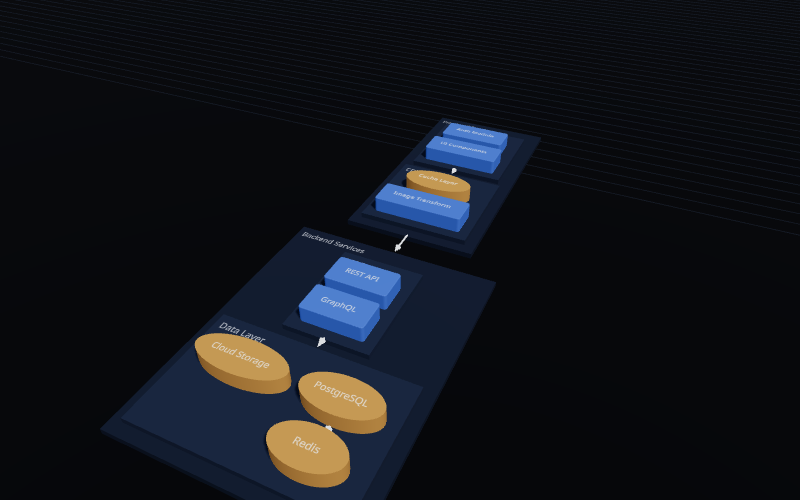
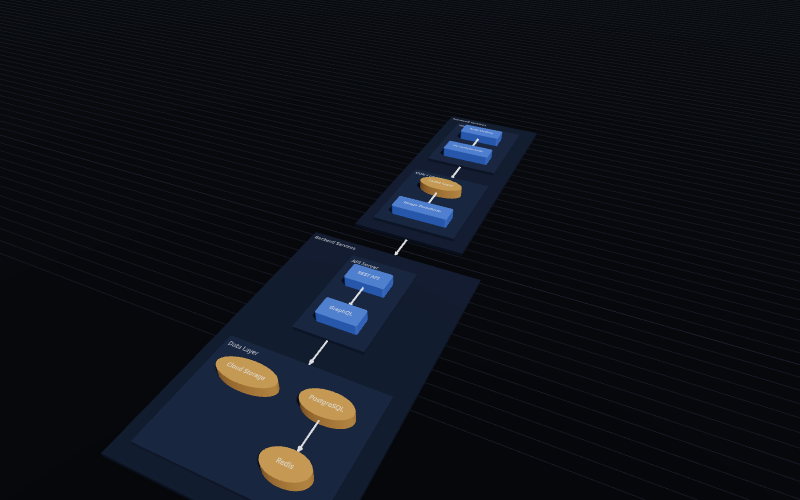
hero: no picture while loading (undecided state paints nothing; poster only when the device can't go live); retake all stills with pnpm capture (builds core first); retake rule in CONTRIBUTING, PULL_REQUEST, LOG; hero path/ready User Timing marks (BON-209)

Changed region(s): [[0.125, 0.45, 0.625, 1.0], [0.4375, 0.24, 0.6875, 0.51]]

diff --git a/apps/site/src/Hero.tsx b/apps/site/src/Hero.tsx
@@ -19,31 +19,37 @@ function canGoLive() {
   }
 }
 
-// The landing page's hero. The poster paints first; the live scene loads behind it and fades in once
-// it has drawn a real frame. `live`: true forces the scene, false forces the poster, unset auto-detects.
+// The landing page's hero. An empty stage first (nothing is painted until we know which path this device
+// gets); the live scene fades in once it has drawn a real frame. The poster is only for devices that can't
+// go live. `live`: true forces the scene, false forces the poster, unset auto-detects.
 export function Hero({ live, source, start, autoplay, every, onSource }: {
   live?: boolean; source: string; start?: SceneProps['start']; autoplay?: boolean; every?: number; onSource?: () => void
 }) {
-  const [on, setOn] = useState(live ?? false)
+  const [on, setOn] = useState<boolean | undefined>(live)
   const [ready, setReady] = useState(false)
 
   useEffect(() => {
-    setOn(live === undefined ? canGoLive() : live)
+    const go = live === undefined ? canGoLive() : live
+    setOn(go)
+    // Which path this visitor got; the site has no telemetry channel, so it is a User Timing mark.
+    performance.mark(go ? 'hero-path-live' : 'hero-path-poster')
   }, [live])
 
   return (
     <div className="site-stage">
-      <img className="site-stage-poster" src={`${import.meta.env.BASE_URL}poster.png`} width={1080} height={460}
-        alt="A small Mermaid flowchart shown isometrically: nodes as raised blocks on trays, joined by arrows" />
-      {on && (
+      {on === false && (
+        <img className="site-stage-poster" src={`${import.meta.env.BASE_URL}poster.png`} width={1080} height={460}
+          alt="A small Mermaid flowchart shown isometrically: nodes as raised blocks on trays, joined by arrows" />
+      )}
+      {on === true && (
         <Suspense fallback={null}>
           <div className={'site-live' + (ready ? ' ready' : '')}>
             <HeroScene source={source} start={start} autoplay={autoplay} every={every} onSource={onSource}
-              onReady={() => { setReady(true); performance.mark('hero-scene-ready') }} />
+              onReady={() => { setReady(true); performance.mark('hero-scene-ready'); performance.measure('hero-time-to-ready', 'hero-path-live') }} />
           </div>
         </Suspense>
       )}
-      {!on && (
+      {on === false && (
         <>
           <div className="site-stage-caption">Try it live to explore</div>
           <button className="site-stage-src" onClick={onSource}>see the source ↗</button>

diff --git a/apps/site/src/site.stories.tsx b/apps/site/src/site.stories.tsx
@@ -21,7 +21,7 @@ export const Phone: Story = {
 
 export const NoWebGL: Story = { args: { name: 'Bonkei', live: false } }
 
-// The hero on its own, through the wrapper (poster, then the lazily loaded live scene fading in).
+// The hero on its own, through the wrapper (an empty stage, then the lazily loaded live scene fading in; no picture first).
 const Wrap = ({ label, children }: { label: string; children: React.ReactNode }) => (
   <div className="site" style={{ padding: 24, minHeight: 'auto' }}>
     <div className="site-wrap"><div className="site-note" style={{ textAlign: 'left' }}>sample data: {label}</div>{children}</div>
@@ -36,4 +36,7 @@ export const HeroPicked3D: StoryObj<typeof Hero> = {
 }
 export const HeroSequence: StoryObj<typeof Hero> = {
   render: () => <Wrap label="login sequence (made up, login.ts 'seq: login flow')"><Hero live source={login} /></Wrap>,
+}
+export const HeroPosterOnly: StoryObj<typeof Hero> = {
+  render: () => <Wrap label="device that can't draw live: the poster, caption and source button"><Hero live={false} source={sample} /></Wrap>,
 }

diff --git a/LOG.md b/LOG.md
@@ -401,3 +401,17 @@ A host Vite 8 build puts ELK in `elk.bundled-*.js` (1,428 kB raw, 442 kB gzip) a
 **Not in this task.** Any change to how Fit or the mode switch frame the diagram; a new control. A `fit: 'tight'` diagram still frames itself again when its container changes size (that is a resize, not a new layout).
 
 **Consequences.** "`fit()` itself does not square: it also runs on each new layout" (BON-78, above) is now only half true: `fit()` still does not square, but it no longer runs on each new layout. Something added out of view stays out of view until the reader moves or presses Fit. Code that drove a view and relied on each new layout re-framing (none in this repo) must call `fit()` itself.
+
+## 2026-11-19 — The hero shows no picture while it loads; every change to how Bonkei draws retakes the pictures (BON-209)
+
+**Context.** The hero painted `poster.png` first and faded the live scene over it. The poster was last retaken on 2026-11-14 and Bonkei has been redrawn many times since, so visitors saw one layout jump to another.
+
+**Decisions.**
+- **Empty stage, then the live scene.** `Hero` starts undecided and paints nothing (same size and background) until `canGoLive()` has run; on a desktop with WebGL2 the scene fades in on its first real frame and `poster.png` is never requested. The poster, caption and "see the source" button show only when `canGoLive()` is false (no WebGL2, ≤760px, coarse pointer) or `live={false}`.
+- **All pictures retaken** with `pnpm capture` (poster, og, still-flat, still-iso, still-3d, still-seq). `pnpm capture` now builds core first (it failed on a fresh checkout without `packages/core/dist`).
+- **Rule:** any change to how Bonkei draws retakes the pictures with `pnpm capture` in the same PR; it is a line in PULL_REQUEST.md and in CONTRIBUTING.md.
+- **Telemetry:** User Timing marks `hero-path-live` / `hero-path-poster` and a `hero-time-to-ready` measure; the site has no telemetry channel to send them to.
+
+**Alternatives considered.** Keeping the poster as a loading screen and keeping it matching (it would have to match code, theme, camera and size exactly); an automated image-diff check (unreliable for 3D, blocks PRs for no real reason).
+
+**Consequences.** About half a second of empty stage on desktop instead of a stale picture. Pictures can still go stale if the rule is ignored; it is a human check.

diff --git a/CONTRIBUTING.md b/CONTRIBUTING.md
@@ -2,7 +2,7 @@
 
 Small, early project: PRs and issues welcome. `pnpm install && pnpm dev`, then open the viewer at http://localhost:5173/app/ (the bare http://localhost:5173/ is the marketing site; to run several copies at once, set `SITE_PORT` and `VIEWER_PORT` as the README's dev section shows). Pick something from the list below, or from the open issues.
 
-After any change that alters what the scene looks like, re-run `pnpm capture` and commit the regenerated `apps/site/public/*.png`. It needs a local Chrome; set `CHROME_PATH` to use a different binary.
+**Any change to how Bonkei draws (shapes, themes, layout, camera, lines, labels) retakes the site's pictures in the same PR:** run `pnpm capture` (it builds core first) and commit the regenerated `apps/site/public/*.png` (`poster.png`, `og.png`, `still-*.png`). The hero shows no picture while loading; the poster is only for devices without WebGL, and the cards and the share image are the other stills, so old ones show wrong looks. It needs a local Chrome; set `CHROME_PATH` to use a different binary.
 
 Map of the code (a pnpm workspace; see the README's Packages list):
 - `packages/core/src/parser.ts`, `packages/core/src/seq.ts`: Mermaid flowchart and sequence parsing (+ sequence layout)

diff --git a/PULL_REQUEST.md b/PULL_REQUEST.md
@@ -16,4 +16,8 @@ Where to look: `packages/core/src/camera.ts` (`relayout`, `adopt`, `frameOf`, `f
 - **Mode switch after an edit while in a tray** now re-centres on that tray (or its parent, or the whole diagram if it was deleted) instead of keeping a pan made inside it. Someone who panned inside a tray, edited, then switched mode would see the view re-centre on the tray.
 - **Script-tag theme attribute** now keeps the same React tree; a bug in a theme switch that a fresh mount used to hide (state from the old look) would show as a wrong look after changing `theme` on an element.
 
+## Checklist
+
+- [ ] If this changes how Bonkei draws (shapes, themes, layout, camera, lines, labels), the site's pictures are retaken with `pnpm capture` in this PR (`apps/site/public/*.png`: poster, og, still-flat, still-iso, still-3d, still-seq).
+
 🤖 Generated with [Claude Code](https://claude.com/claude-code)
